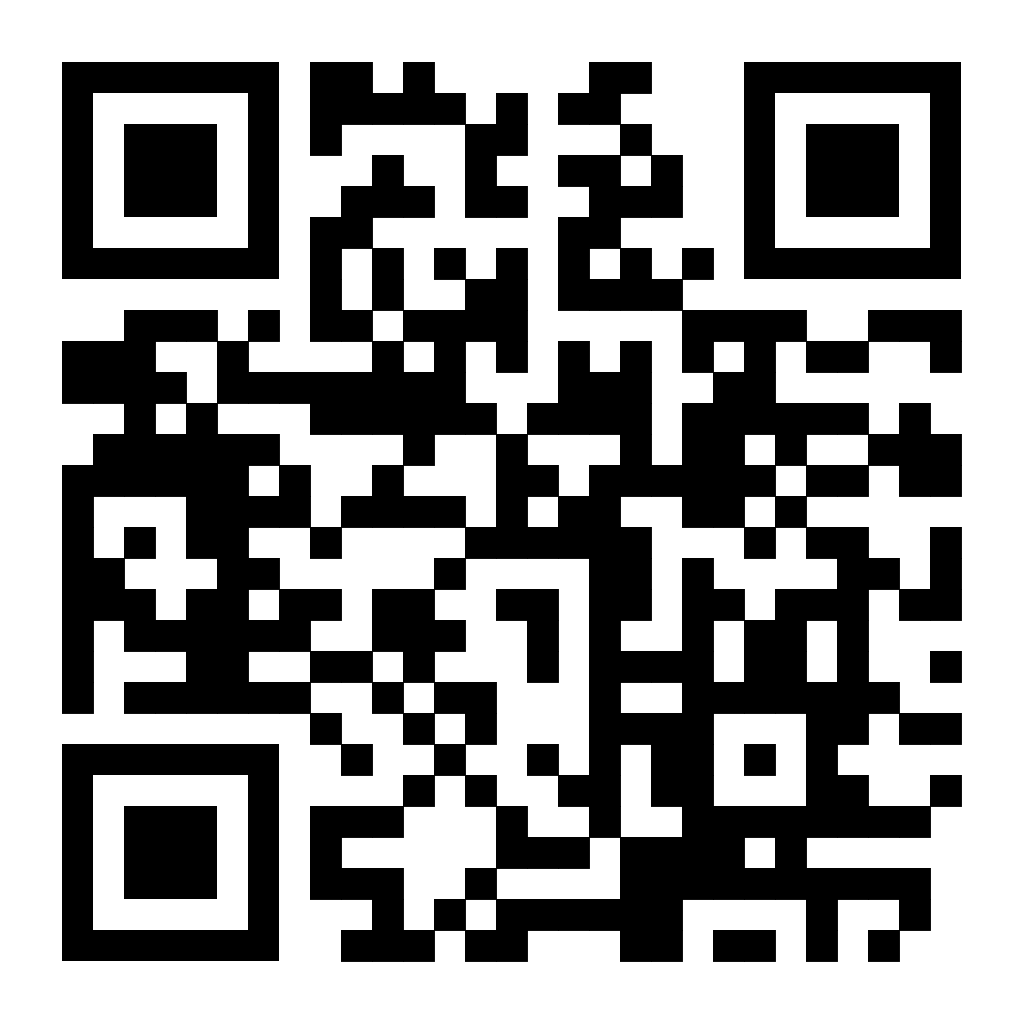
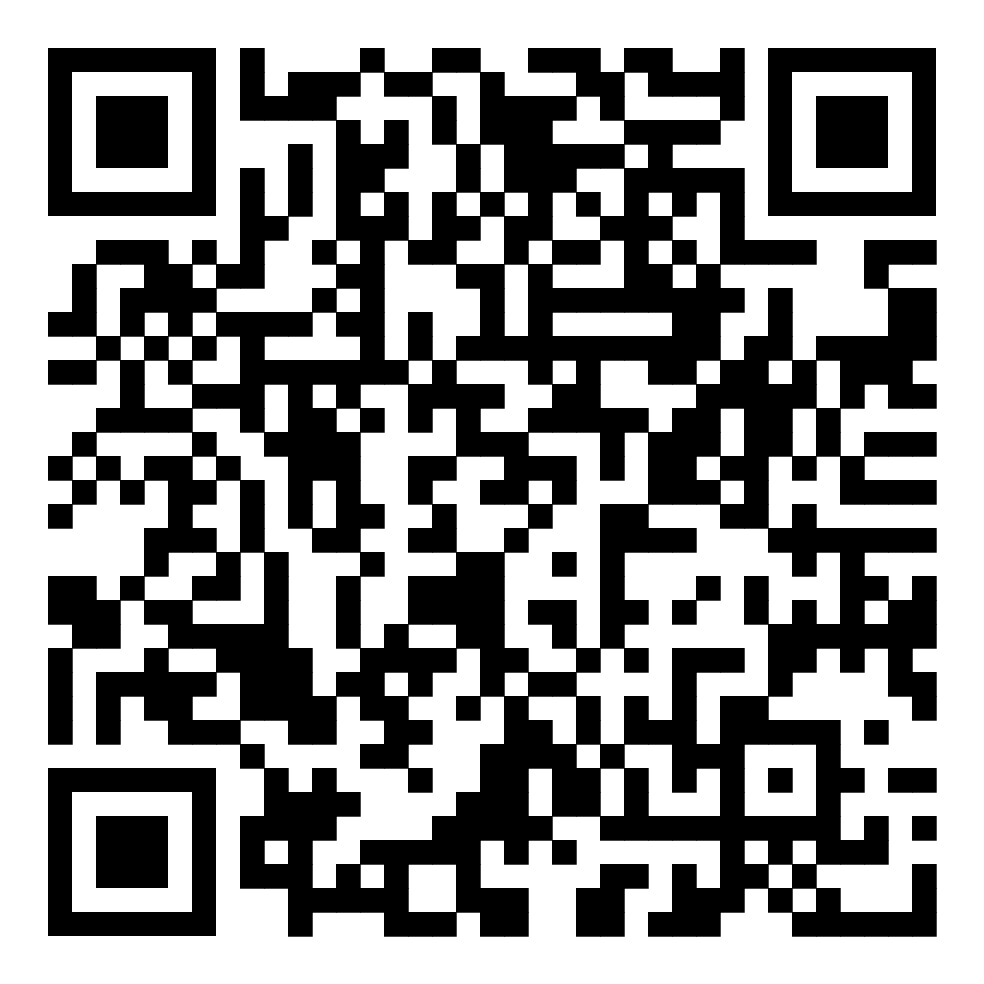
changed link and qr code

diff --git a/wireless-game-app/src/pages/progress/finalProduct.js b/wireless-game-app/src/pages/progress/finalProduct.js
@@ -36,7 +36,7 @@ const FinalProduct = () => {
               className="w-48 h-48 rounded-md overflow-hidden mx-auto"
             />
             <a
-              href="https://ouroipjournal.netlify.app/"
+              href="https://urfrider.github.io/annexe-app/"
               target="_blank"
               rel="noopener noreferrer"
               className="block px-4 py-2 mt-2 bg-green-500 text-white rounded-md font-playfair text-base text-center hover:bg-opacity-80 transition-all"
